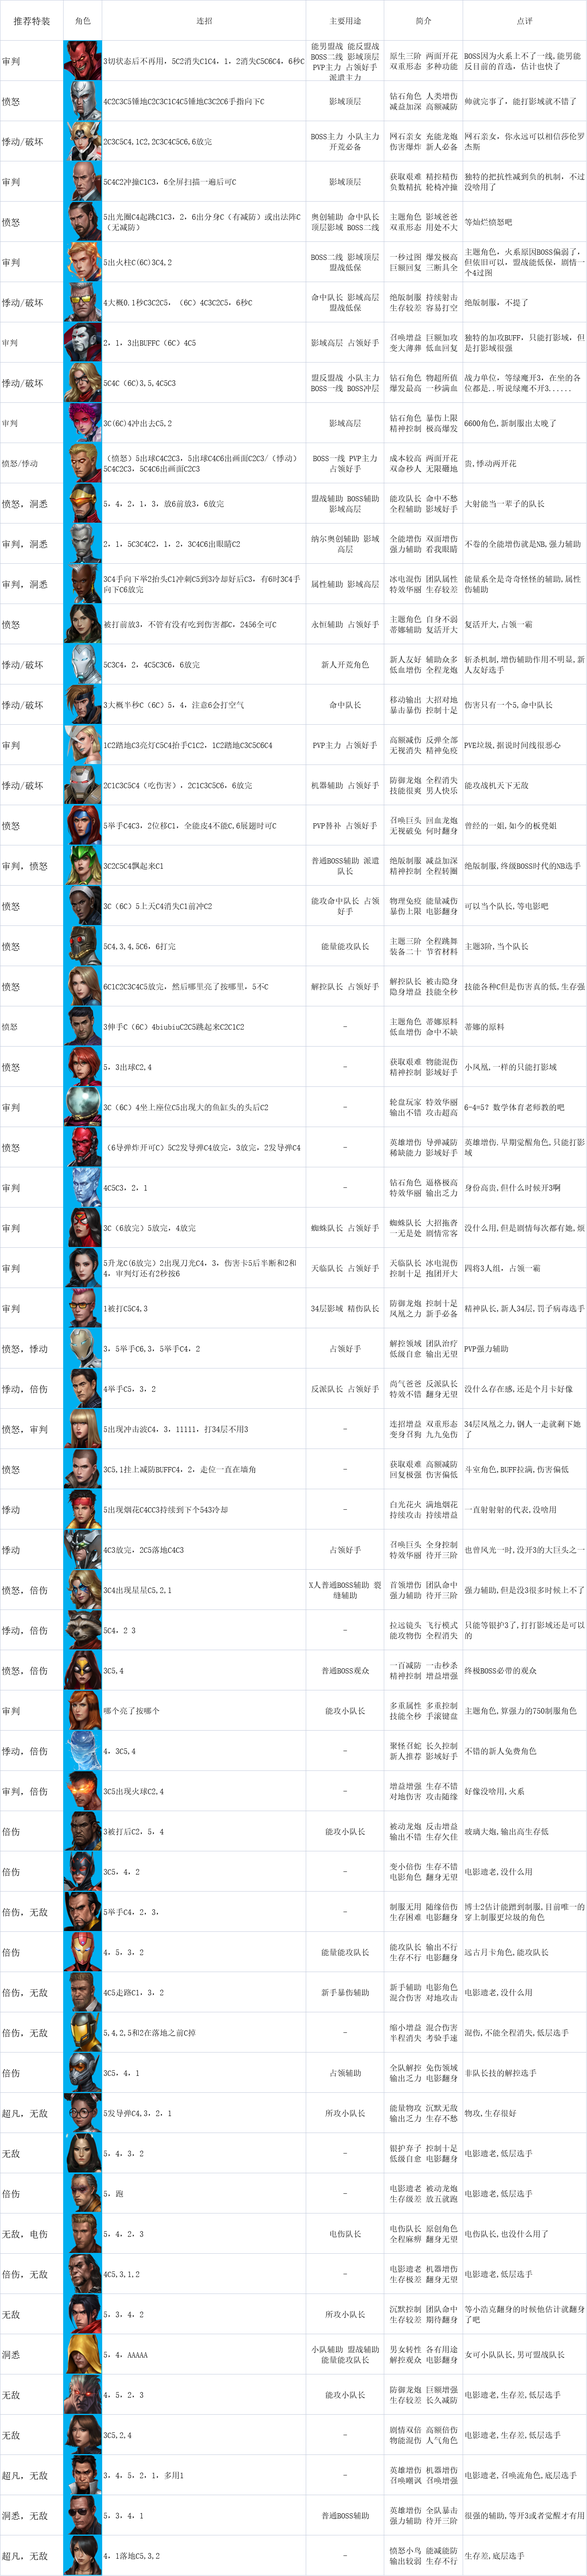
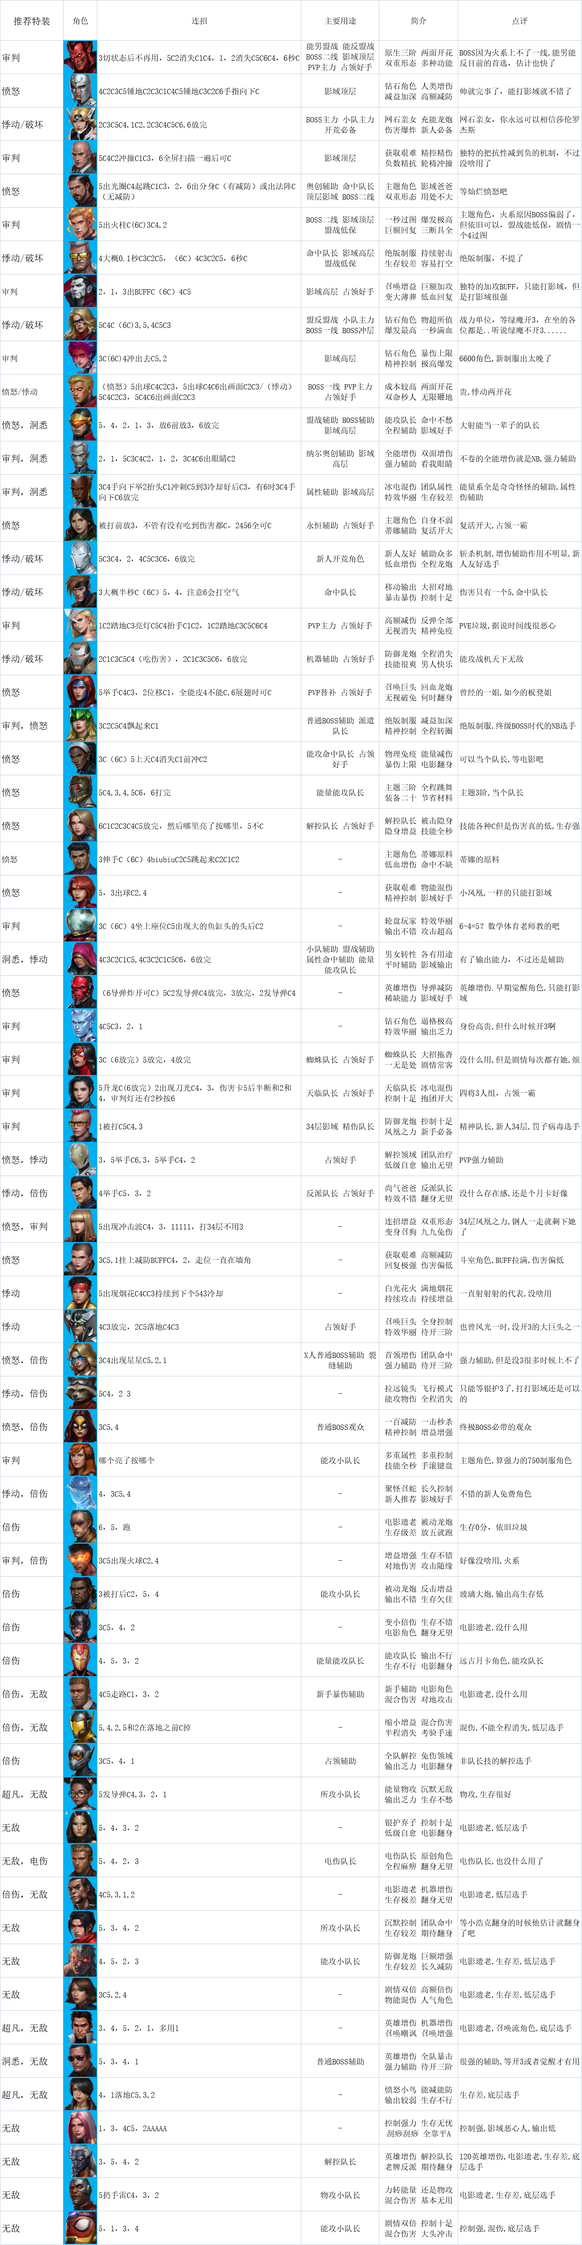
updata 2022-05-13 updata

diff --git a/readme.md b/readme.md
@@ -2,21 +2,25 @@
 
 <img src="https://www.nextstepone.ltd/mff/images/introduce2.png" alt="" referrerpolicy="no-referrer">
 
-收集并展示一些漫威未来之战资料，方便查找
+收集并展示一些《漫威·未来之战》游戏资料，方便查找
 
-收集的所有资料均来自互联网，如有侵权或署名要求请联系我邮箱:[✉:389703618@qq.com ](mailto:389703618@qq.com)或者 🐧:389703618，我会尽快回复您~
+收集的所有资料均来自互联网，如有侵权或署名要求请联系我邮箱:[✉:389703618@qq.com ](mailto:389703618@qq.com)或者 🐧:**389703618**，我会尽快回复您~
 
-Tips：如果图片内容不清晰，请下载原图查看；电脑用户可以按住 Ctrl ，利用鼠标滑轮调整网页大小，手机用户菜单在左上角
+Tips：如果图片内容不清晰，请下载原图查看；电脑用户可以按住 Ctrl ，利用鼠标滑轮调整网页大小，**手机用户菜单在左上角**
 
 ------
 
-开源项目地址，如果觉得有用，欢迎帮忙点击⭐star哦~ [https://github.com/The-Nextstep/mff](https://github.com/The-Nextstep/mff)
+**<font color='red'>奇异博士2：疯狂多元宇宙</font>**  枪版在线看 [http://www.5151gk.com/vodplay/30335-1-1.html](http://www.5151gk.com/vodplay/30335-1-1.html)
+
+**<font color='red'>永恒族高清</font>** 链接：https://pan.baidu.com/s/1YDbLHbMOoyoWTwG64_xreg 提取码：XQFY
+
+开源项目地址，如果觉得有用，**<font color='red'>欢迎帮忙点击⭐star哦~</font>** [https://github.com/The-Nextstep/mff](https://github.com/The-Nextstep/mff)
+
+国外牛人全英文资料大全 [https://21000dollor.com/](https://21000dollor.com/)
 
 [Marvel Future Fight] TW论坛  [https://forum.netmarble.com/futurefight_tw/list/230/1]( https://forum.netmarble.com/futurefight_tw/list/230/1)
 
-[Marvel Future Fight] EN论坛  [https://forum.netmarble.com/futurefight_en/list/all/1](https://forum.netmarble.com/futurefight_en/list/all/1)
-
-国外牛人全英文资料大全 [https://21000dollor.com/](https://21000dollor.com/)
+[Marvel Future Fight] EN论坛  [https://forum.netmarble.com/futurefight_en/list/all/1](https://21000dollor.com/)
 
 
 

diff --git a/index.md b/index.md
@@ -13,17 +13,19 @@ layout: home
 
 收集的所有资料均来自互联网，如有侵权或署名要求请联系我邮箱:[✉:389703618@qq.com ](mailto:389703618@qq.com)或者 🐧:**389703618**，我会尽快回复您~
 
-Tips：如果图片内容不清晰，请下载原图查看；电脑用户可以按住 Ctrl ，利用鼠标滑轮调整网页大小，**手机用户菜单在左上角**
+Tips：如果图片内容不清晰，请下载原图查看；电脑用户可以按住 Ctrl ，利用鼠标滑轮调整网页大小，**<font color='cornflowerblue'><u>手机用户菜单在左上角</u></font>**
 
 ------
 
+**<font color='red'>奇异博士2：疯狂多元宇宙</font>**  枪版在线看 [http://www.5151gk.com/vodplay/30335-1-1.html](http://www.5151gk.com/vodplay/30335-1-1.html)
+
+**<font color='red'>永恒族高清</font>** 链接：https://pan.baidu.com/s/1YDbLHbMOoyoWTwG64_xreg 提取码：XQFY
+
 开源项目地址，如果觉得有用，**<font color='red'>欢迎帮忙点击⭐star哦~</font>** [https://github.com/The-Nextstep/mff](https://github.com/The-Nextstep/mff)
+
+国外牛人全英文资料大全 [https://21000dollor.com/](https://21000dollor.com/)
 
 [Marvel Future Fight] TW论坛  [https://forum.netmarble.com/futurefight_tw/list/230/1]( https://forum.netmarble.com/futurefight_tw/list/230/1)
 
 [Marvel Future Fight] EN论坛  [https://forum.netmarble.com/futurefight_en/list/all/1](https://forum.netmarble.com/futurefight_en/list/all/1)
-
-国外牛人全英文资料大全 [https://21000dollor.com/](https://21000dollor.com/)
-
-<font color='red'>**奇异博士2：疯狂多元宇宙**</font>  枪版在线看 [http://www.5151gk.com/vodplay/30335-1-1.html](http://www.5151gk.com/vodplay/30335-1-1.html)
 

diff --git a/_posts/2022-05-01-zhuti.md b/_posts/2022-05-01-zhuti.md
@@ -30,27 +30,33 @@ layout: post
 
 
 
-### 永恒族
+### 永恒族-瑟曦
 
 <img src="https://www.nextstepone.ltd/mff/images/zhuti4.jpg" alt="" referrerpolicy="no-referrer">
 
 
 
+### 永恒族-伊格瑞斯
+
 <img src="https://www.nextstepone.ltd/mff/images/zhuti5.jpg" alt="" referrerpolicy="no-referrer">
 
-
+### 永恒族-金格
 
 <img src="https://www.nextstepone.ltd/mff/images/zhuti6.jpg" alt="" referrerpolicy="no-referrer">
 
-
+### 永恒族-吉尔伽美什
 
 <img src="https://www.nextstepone.ltd/mff/images/zhuti7.jpg" alt="" referrerpolicy="no-referrer">
 
 
 
+### 永恒族-马卡里
+
 <img src="https://www.nextstepone.ltd/mff/images/zhuti8.jpg" alt="" referrerpolicy="no-referrer">
 
 
+
+### 永恒族-蒂娜
 
 <img src="https://www.nextstepone.ltd/mff/images/zhuti9.jpg" alt="" referrerpolicy="no-referrer">
 

diff --git a/_posts/2022-05-01-yingyu.md b/_posts/2022-05-01-yingyu.md
@@ -8,9 +8,11 @@ layout: post
 
 
 
-[ **8.0 版本** ]    ( by 炫夜Q群 )
+
 
 ### 首通奖励
+
+[ **8.0 版本** ]    ( by 炫夜Q群 )
 
 <img src="https://www.nextstepone.ltd/mff/images/yingyu3.jpg" alt="" referrerpolicy="no-referrer">
 
@@ -22,7 +24,9 @@ layout: post
 
 ### 强度图
 
-<img src="https://www.nextstepone.ltd/mff/images/yingyu2.jpg" alt="" referrerpolicy="no-referrer">
+[ **8.05 版本** ]    ( by 收藏家无法 )
+
+<img src="https://www.nextstepone.ltd/mff/images/yingyu2.png" alt="" referrerpolicy="no-referrer">
 
 
 

diff --git a/_pages/2022-03-04-updata.md b/_pages/2022-03-04-updata.md
@@ -8,6 +8,20 @@ layout: home
 
 
 
+#### 2022-05-13
+
+1.更新 **8.05版本** 连招表
+
+1.更新 **8.05版本** 影域强度图
+
+© 2022 NextstepOne
+
+
+
+------
+
+
+
 #### 2022-05-12
 
 1.更新 **萌新必读**，增加一些基础知识，如：如何卡倍伤，如何白嫖P卡....

diff --git a/_posts/2022-05-01-lianzhao.md b/_posts/2022-05-01-lianzhao.md
@@ -8,7 +8,7 @@ layout: post
 
 
 
-[ **8.0 版本** ]    ( by 炫夜Q群 收藏家无法 )
+[ **8.05 版本** ]    ( by 炫夜Q群 收藏家无法 )
 
 ### 全能
 
